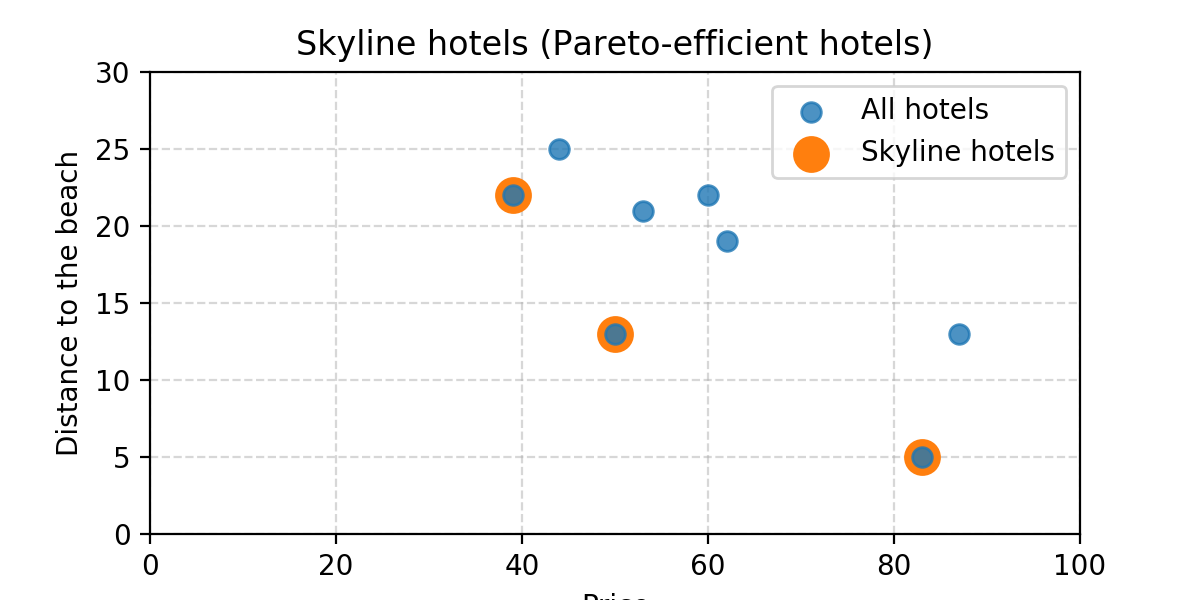
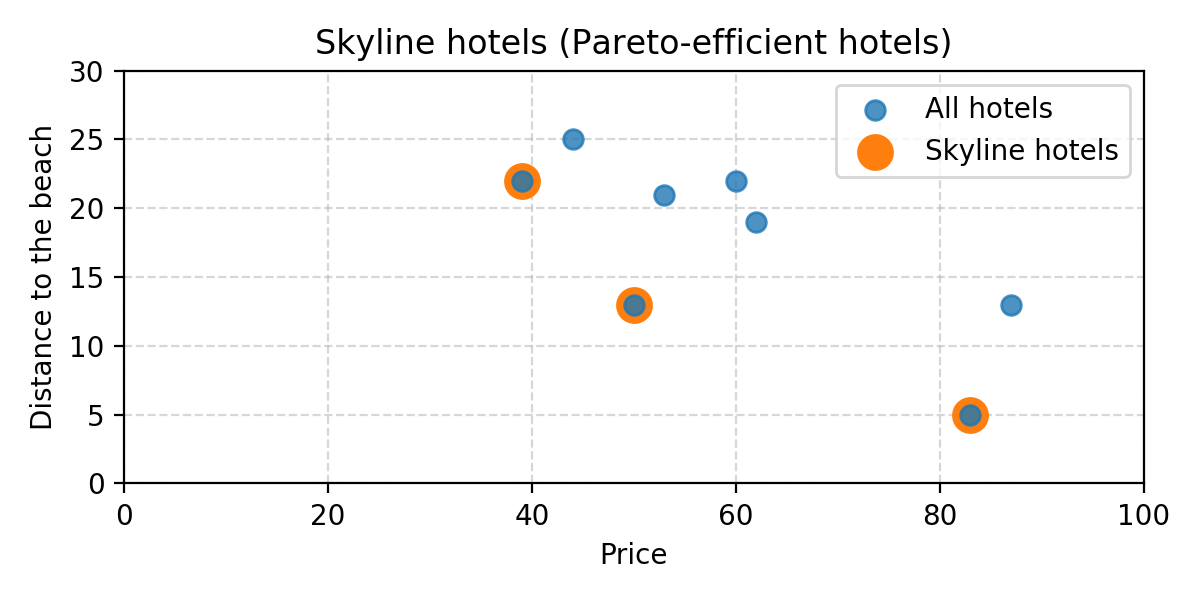
new figures

diff --git a/scripts/examples.py b/scripts/examples.py
@@ -30,6 +30,7 @@ plt.ylim([0, 30])
 plt.xlabel("Price")
 plt.ylabel("Distance to the beach")
 plt.grid(True, alpha=0.5, ls="--", zorder=0)
+plt.tight_layout()
 plt.savefig("example_hotels.png", dpi=200)
 plt.show()
 
@@ -137,5 +138,6 @@ plt.ylabel("Objective 2")
 plt.xticks(fontsize=0)
 plt.yticks(fontsize=0)
 plt.grid(True, alpha=0.5, ls="--", zorder=0)
+plt.tight_layout()
 plt.savefig("example_optimization.png", dpi=200)
 plt.show()

diff --git a/README.md b/README.md
@@ -80,12 +80,6 @@ efficient_solutions = [solution for (solution, m) in zip(solutions, mask) if m]
 
 ![](scripts/example_optimization.png)
 
-
-
-
-
-
-
 ## Installation
 
 The software is available through GitHub, and through [PyPI](https://pypi.org/project/skyline/).
